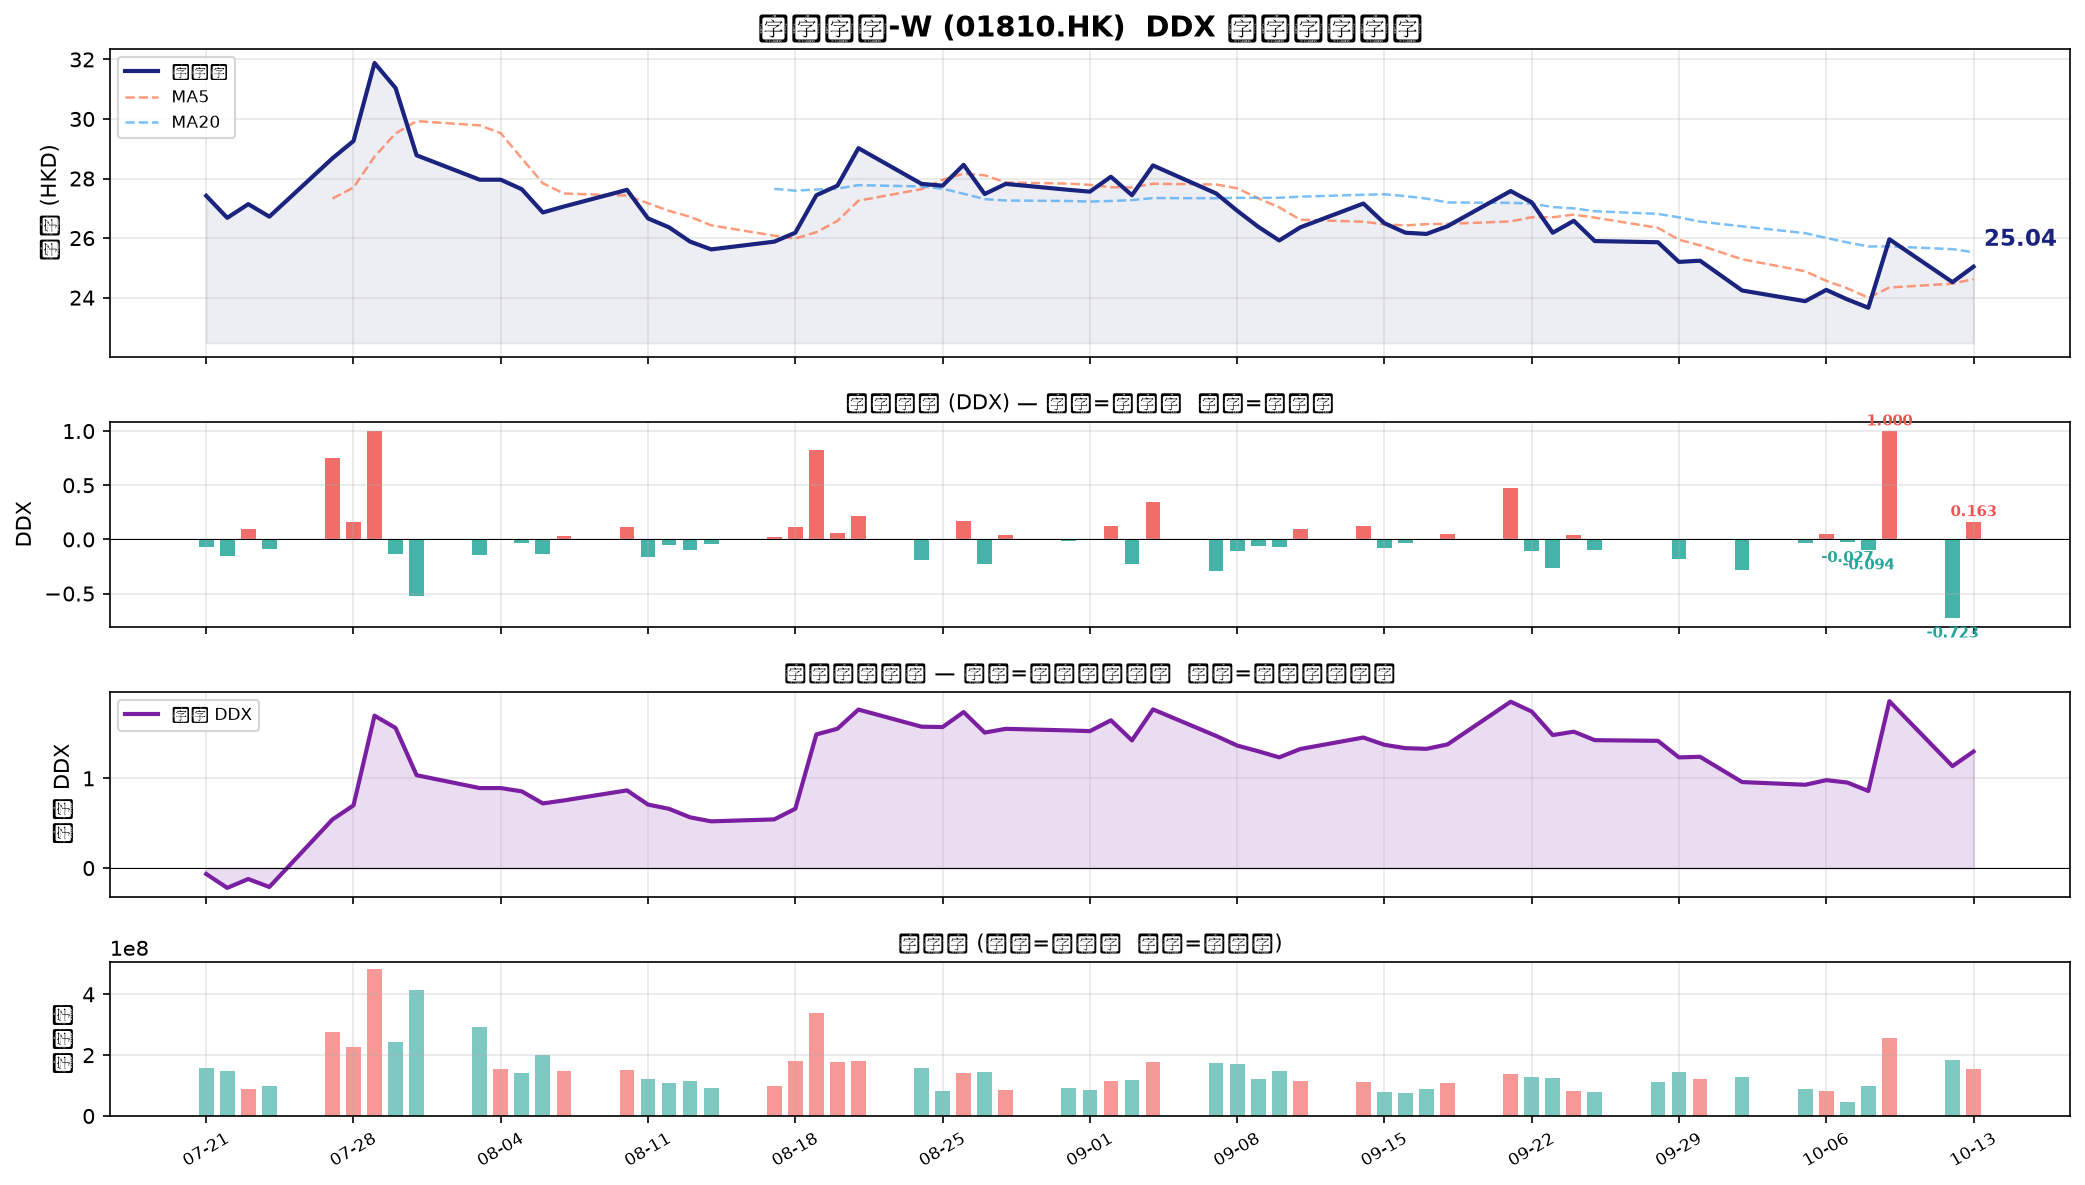
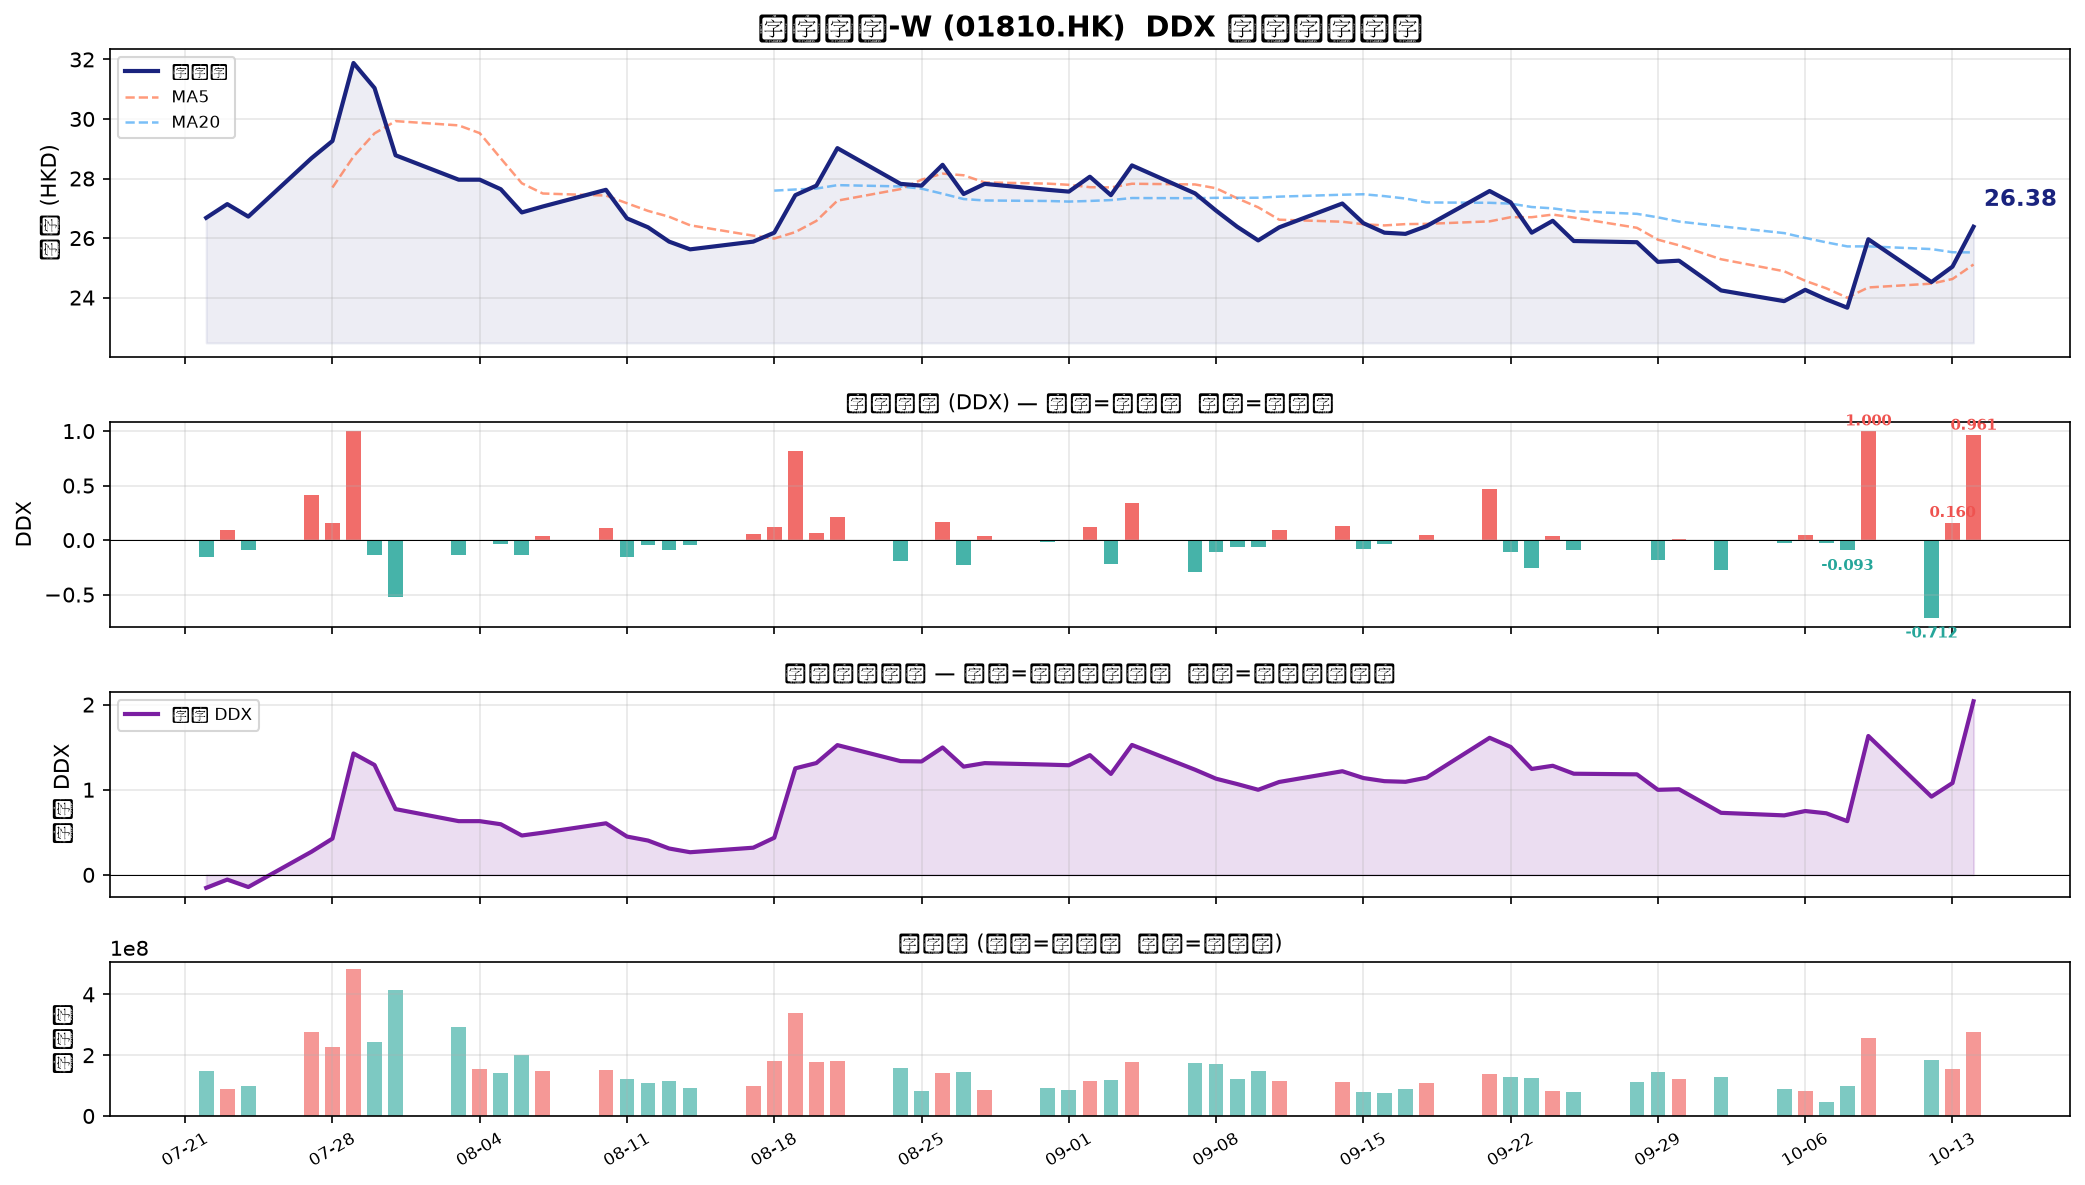
📊 DDX 每日对比报告 - 2026-10-14 21:59

diff --git a/output/ddx_report_20261014.md b/output/ddx_report_20261014.md
@@ -1,6 +1,6 @@
 # 小米集团-W (01810.HK) DDX 每日对比报告
 
-**生成时间**: 2026-10-14 00:22:27
+**生成时间**: 2026-10-14 21:59:16
 
 ---
 
@@ -8,12 +8,12 @@
 
 | 指标 | 数值 |
 |:-----|:----:|
-| 收盘价 | 25.04 HKD |
-| 涨跌幅 | +2.12% |
-| 涨跌额 | +0.5200 HKD |
-| 成交量 | 1.55 亿股 |
-| 成交额 | 38.21 亿港元 |
-| 振幅 | 4.65% |
+| 收盘价 | 26.38 HKD |
+| 涨跌幅 | +5.35% |
+| 涨跌额 | +1.3400 HKD |
+| 成交量 | 2.78 亿股 |
+| 成交额 | 72.74 亿港元 |
+| 振幅 | 8.71% |
 
 ## 💰 实时资金流向
 
@@ -29,11 +29,11 @@
 
 | 周期 | DDX 累计值 | 趋势判断 |
 |:----|:---------:|:--------|
-| 今日 | +0.1625 | 大单资金持续净流入，主力积极建仓，短期看多信号 |
-| 近3日 | +0.4394 | 大单资金持续净流入，主力积极建仓，短期看多信号 |
-| 近5日 | +0.3186 | 大单资金持续净流入，主力积极建仓，短期看多信号 |
-| 近10日 | -0.1190 | 大单资金小幅流出，主力有减仓迹象 |
-| 近20日 | -0.1561 | 大单资金大幅流出，主力持续减仓，注意风险 |
+| 今日 | +0.9606 | 大单资金持续净流入，主力积极建仓，短期看多信号 |
+| 近3日 | +0.4086 | 大单资金持续净流入，主力积极建仓，短期看多信号 |
+| 近5日 | +1.3160 | 大单资金持续净流入，主力积极建仓，短期看多信号 |
+| 近10日 | +1.0404 | 大单资金持续净流入，主力积极建仓，短期看多信号 |
+| 近20日 | +0.9021 | 大单资金持续净流入，主力积极建仓，短期看多信号 |
 
 ## 📉 趋势判断
 
@@ -41,20 +41,20 @@
 大单资金持续净流入，主力积极建仓，短期看多信号
 
 ### 中期（5-10日）
-大单资金小幅流出，主力有减仓迹象
+大单资金持续净流入，主力积极建仓，短期看多信号
 
 ### 长期（20日）
-大单资金大幅流出，主力持续减仓，注意风险
+大单资金持续净流入，主力积极建仓，短期看多信号
 
 ## 📋 近5日明细
 
 | 日期 | 收盘价 | 涨跌幅 | DDX | 成交量(亿) |
 |:---|:-----:|:-----:|:---:|:--------:|
-| 10-07 | 23.94 | -1.32% | -0.0267 | 0.46 |
-| 10-08 | 23.66 | -1.17% | -0.0941 | 0.97 |
+| 10-08 | 23.66 | -1.17% | -0.0926 | 0.97 |
 | 10-09 | 25.96 | +9.72% | +1.0000 | 2.56 |
-| 10-12 | 24.52 | -5.55% | -0.7231 | 1.83 |
-| 10-13 | 25.04 | +2.12% | +0.1625 | 1.55 |
+| 10-12 | 24.52 | -5.55% | -0.7121 | 1.83 |
+| 10-13 | 25.04 | +2.12% | +0.1600 | 1.55 |
+| 10-14 | 26.38 | +5.35% | +0.9606 | 2.78 |
 
 ---
 
